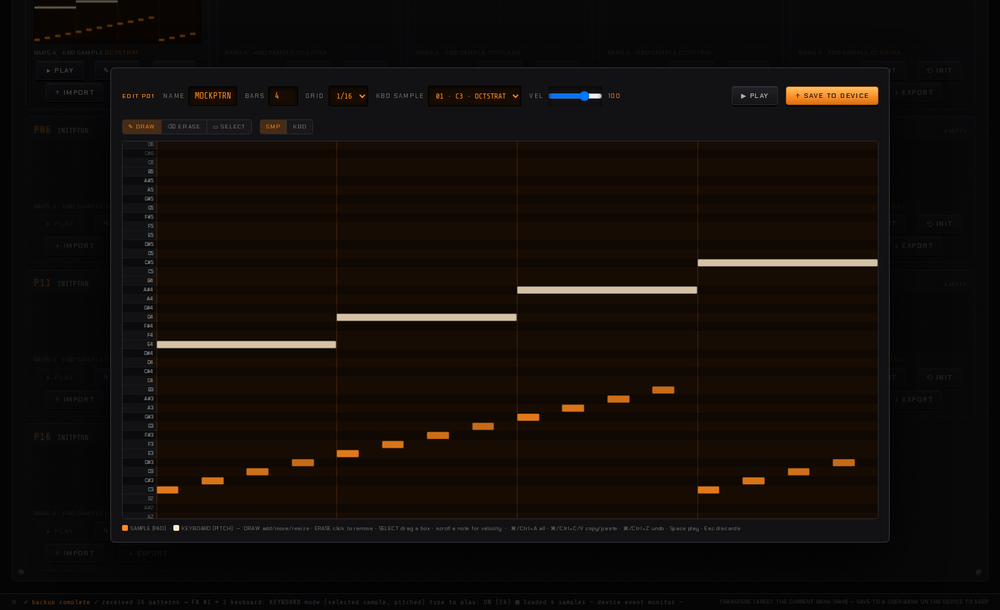
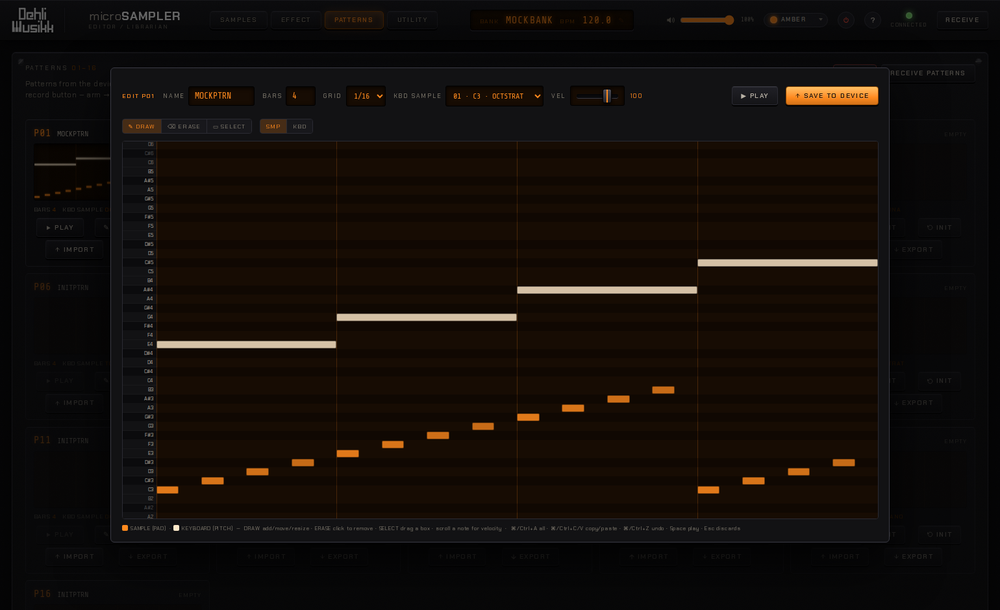
Align pattern editor header fields and widen name / KBD sample

diff --git a/web-editor/components/pattern-editor/pattern-editor.css b/web-editor/components/pattern-editor/pattern-editor.css
@@ -15,10 +15,12 @@
 .pe-head-row { display: flex; align-items: center; flex-wrap: wrap; gap: .55rem .8rem; }
 .pe-title { color: var(--amber); font-weight: 600; letter-spacing: .18em; }
 .pe-head label { display: inline-flex; align-items: center; gap: .35rem; }
-.pe-head input[type="text"] { width: 5.5em; }
+.pe-head input[type="text"] { width: 7.5em; }
 .pe-head input[type="number"] { width: 3.4em; }
-.pe-head input[type="range"] { width: 84px; }
-.pe-head select { max-width: 12em; }
+/* height matches the row's text inputs/selects so the fader's dark container
+   lines up with them (box-sizing: border-box; the thumb self-centres) */
+.pe-head input[type="range"] { width: 84px; height: 31px; }
+.pe-head select { max-width: 15em; }
 #pe-vel-val { min-width: 2.2em; color: var(--amber); }
 #pe-play.playing .hw-btn-cap { color: var(--amber); }    /* previewing on the device */
 

diff --git a/web-editor/app.html b/web-editor/app.html
@@ -729,7 +729,7 @@
       </label>
       <label class="pe-kbd-sample" title="Sample played by the keyboard-mode track">KBD SAMPLE
         <select id="pe-sample"></select></label>
-      <label>VEL <input type="range" id="pe-vel" min="1" max="127" value="100">
+      <label>VEL <input type="range" id="pe-vel" class="fader" min="1" max="127" value="100">
         <span id="pe-vel-val">100</span></label>
       <span class="spacer"></span>
       <button class="hw-btn" id="pe-play" type="button"